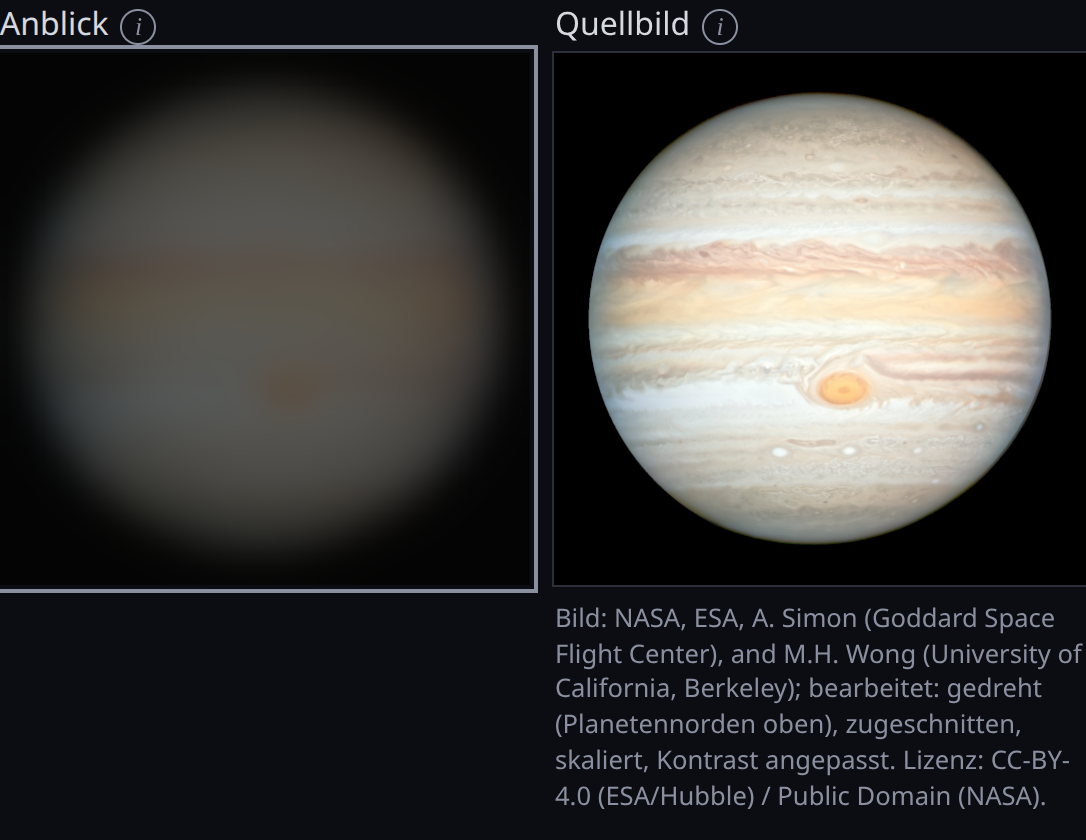
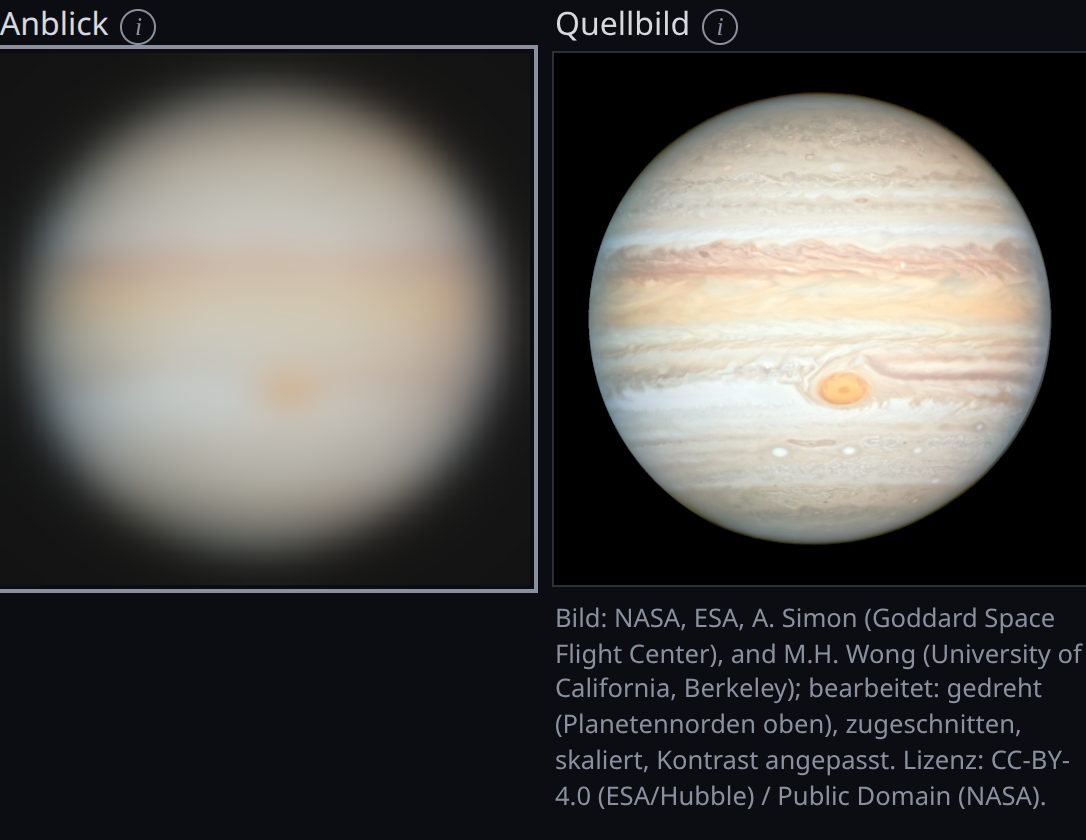
Zusammenfuehrung Welle 3 Version 2: Validierungsbilder neu, README Stand
Alle T- und P-Bilder neu mit validierung-bilder.mjs (SwiftShader) auf dem Stand
nach #100, #127 und #128; die eingecheckten T-Bilder stammten von vor #100.

Changed region(s): [[0.0, 0.0619, 0.4862, 0.7119]]

diff --git a/README.md b/README.md
@@ -26,7 +26,7 @@ Links ein Fernrohr, Fernglas oder das blosse Auge aus der Liste waehlen oder Oef
 
 **Version 1** (2026-10-28): alle Muss-Anforderungen sind nachgewiesen ([docs/validierung.md](docs/validierung.md) Abschnitt 8), die Beobachtungs-Testfaelle T1 bis T6 erfuellt. Die Phasen 1 bis 7 aus [docs/prozess.md](docs/prozess.md) sind abgeschlossen; Arbeitspakete und Reihenfolge in [docs/plan.md](docs/plan.md), Rueckblick mit Aufwand je Phase in [docs/retrospektive.md](docs/retrospektive.md). Die uebrigen Kann-Punkte liegen im Milestone "Spaeter".
 
-**Version 2** (begonnen 2026-10-29): Phase 1 abgeschlossen, Anforderungen der Stufe Muss V2 in [docs/anforderungen.md](docs/anforderungen.md) (offene Fragen in Abschnitt 10). Umfang im Milestone "Version 2": Helligkeitskorrektur (#93), Mondphasen (#36), Doppelsterne (#25), Deep-Sky-Objekte M31, M42, M13, M45, M57 (#26). Phase 2 abgeschlossen (2026-10-29): Recherche in [docs/recherche/](docs/recherche/README.md) Abschnitt "Recherche Version 2", Testfaelle T7 bis T12 (von Herbert bestaetigt in Phase 4), Entwurf [ADR-0004](docs/adr/0004-helligkeit-und-wahrnehmungsschwelle.md). Phase 3 abgeschlossen (2026-10-29): Naht Version 2 in [docs/architektur.md](docs/architektur.md) Abschnitt 5 (Hybrid aus zwei Entwuerfen), [ADR-0004](docs/adr/0004-helligkeit-und-wahrnehmungsschwelle.md) angenommen (Feldfaktor 1,4, Sockel, Flaechentabelle), Datenformat im Nachtrag zu [ADR-0003](docs/adr/0003-datenformat.md); der Wegwerf-Prototyp zum Deep-Sky-Anblick liegt auf dem Branch `prototyp-deep-sky`. Phase 4 abgeschlossen (2026-10-29): 20 Arbeitspakete #95 bis #114 plus #36, Wellen und Abhaengigkeiten in [docs/plan.md](docs/plan.md) Abschnitte 7 bis 9; #93, #25, #26 sind Sammel-Issues. Phase 5 laeuft: Welle 0 (#95), Welle 1 (#96 bis #99, #101, #102) und Welle 2 (#100, #103 bis #105) gemerged (2026-10-29); M45 und die Doppelsterne sind bis zum UI-Durchstich #109 aus der Auswahl ausgeblendet. Naechste Arbeitspakete: #109 (UI-Durchstich), #36, danach #106 bis #108.
+**Version 2** (begonnen 2026-10-29): Phase 1 abgeschlossen, Anforderungen der Stufe Muss V2 in [docs/anforderungen.md](docs/anforderungen.md) (offene Fragen in Abschnitt 10). Umfang im Milestone "Version 2": Helligkeitskorrektur (#93), Mondphasen (#36), Doppelsterne (#25), Deep-Sky-Objekte M31, M42, M13, M45, M57 (#26). Phase 2 abgeschlossen (2026-10-29): Recherche in [docs/recherche/](docs/recherche/README.md) Abschnitt "Recherche Version 2", Testfaelle T7 bis T12 (von Herbert bestaetigt in Phase 4), Entwurf [ADR-0004](docs/adr/0004-helligkeit-und-wahrnehmungsschwelle.md). Phase 3 abgeschlossen (2026-10-29): Naht Version 2 in [docs/architektur.md](docs/architektur.md) Abschnitt 5 (Hybrid aus zwei Entwuerfen), [ADR-0004](docs/adr/0004-helligkeit-und-wahrnehmungsschwelle.md) angenommen (Feldfaktor 1,4, Sockel, Flaechentabelle), Datenformat im Nachtrag zu [ADR-0003](docs/adr/0003-datenformat.md); der Wegwerf-Prototyp zum Deep-Sky-Anblick liegt auf dem Branch `prototyp-deep-sky`. Phase 4 abgeschlossen (2026-10-29): 20 Arbeitspakete #95 bis #114 plus #36, Wellen und Abhaengigkeiten in [docs/plan.md](docs/plan.md) Abschnitte 7 bis 9; #93, #25, #26 sind Sammel-Issues. Phase 5 laeuft: Welle 0 (#95), Welle 1 (#96 bis #99, #101, #102) und Welle 2 (#100, #103 bis #105) gemerged (2026-10-29); Welle 3 mit UI-Durchstich #109 (Objektauswahl nach Klassen, freies Paar, Doppelsterne und M45 sichtbar) und Mondphasen #36 gemerged (2026-10-29). Naechste Arbeitspakete: #106 bis #108 (M31, M42, M13), #110 (Infopanel und Hilfetexte).
 
 Architektur: Stack ([ADR-0001](docs/adr/0001-stack.md)), Simulationsmodell ([ADR-0002](docs/adr/0002-simulationsmodell.md)), Datenformat ([ADR-0003](docs/adr/0003-datenformat.md)), Modulschnitt in [docs/architektur.md](docs/architektur.md), Begriffe in [GLOSSARY.md](GLOSSARY.md). Anforderungen in [docs/anforderungen.md](docs/anforderungen.md), Recherche mit Formeln und Quellen in [docs/recherche/](docs/recherche/README.md). Der Wegwerf-Prototyp aus Phase 3 liegt auf dem Branch `prototyp-faltung`.
 

diff --git a/docs/validierung.md b/docs/validierung.md
@@ -230,7 +230,7 @@ Stand 2026-10-28. Je Muss-Anforderung aus `docs/anforderungen.md` das Issue mit 
 
 ## 9. Mondphasen (Issue #36)
 
-Drei weitere Mondzustaende aus NASA SVS 5587 (`mond_sichel`, `mond_voll`, `mond_lv`, `docs/recherche/bilder-v2.md` 8.5). Bilder mit `node scripts/validierung-bilder.mjs P1a P1b P2a P2b P3a P3b` am 2026-10-29 (SwiftShader, Stand main 15da6ee plus #36). Die Faelle sind Sichtpruefungen der Daten, keine Testfaelle nach A-Q2. T1 bis T6 waren mit den drei neuen Zustaenden allein byte-gleich mit main 15da6ee (27 Dateien); seit der Vereinheitlichung von `mond_ev` aendern sich T3 und T6a (Nachtrag unten). Die eingecheckten T-Bilder sind aelter (vor #100) und bleiben unveraendert.
+Drei weitere Mondzustaende aus NASA SVS 5587 (`mond_sichel`, `mond_voll`, `mond_lv`, `docs/recherche/bilder-v2.md` 8.5). Bilder mit `node scripts/validierung-bilder.mjs P1a P1b P2a P2b P3a P3b` am 2026-10-29 (SwiftShader, Stand main 15da6ee plus #36). Die Faelle sind Sichtpruefungen der Daten, keine Testfaelle nach A-Q2. T1 bis T6 waren mit den drei neuen Zustaenden allein byte-gleich mit main 15da6ee (27 Dateien); seit der Vereinheitlichung von `mond_ev` aendern sich T3 und T6a (Nachtrag unten). Die eingecheckten T-Bilder waren aelter (vor #100); seit der Zusammenfuehrung von Welle 3 (2026-10-29) zeigen alle T- und P-Bilder den Stand nach #100, #127 (weicher Kernrand der Punktquellen, physik.md 24) und #128, erzeugt mit SwiftShader.
 
 | Fall | Suchteil | Bild |
 |---|---|---|
